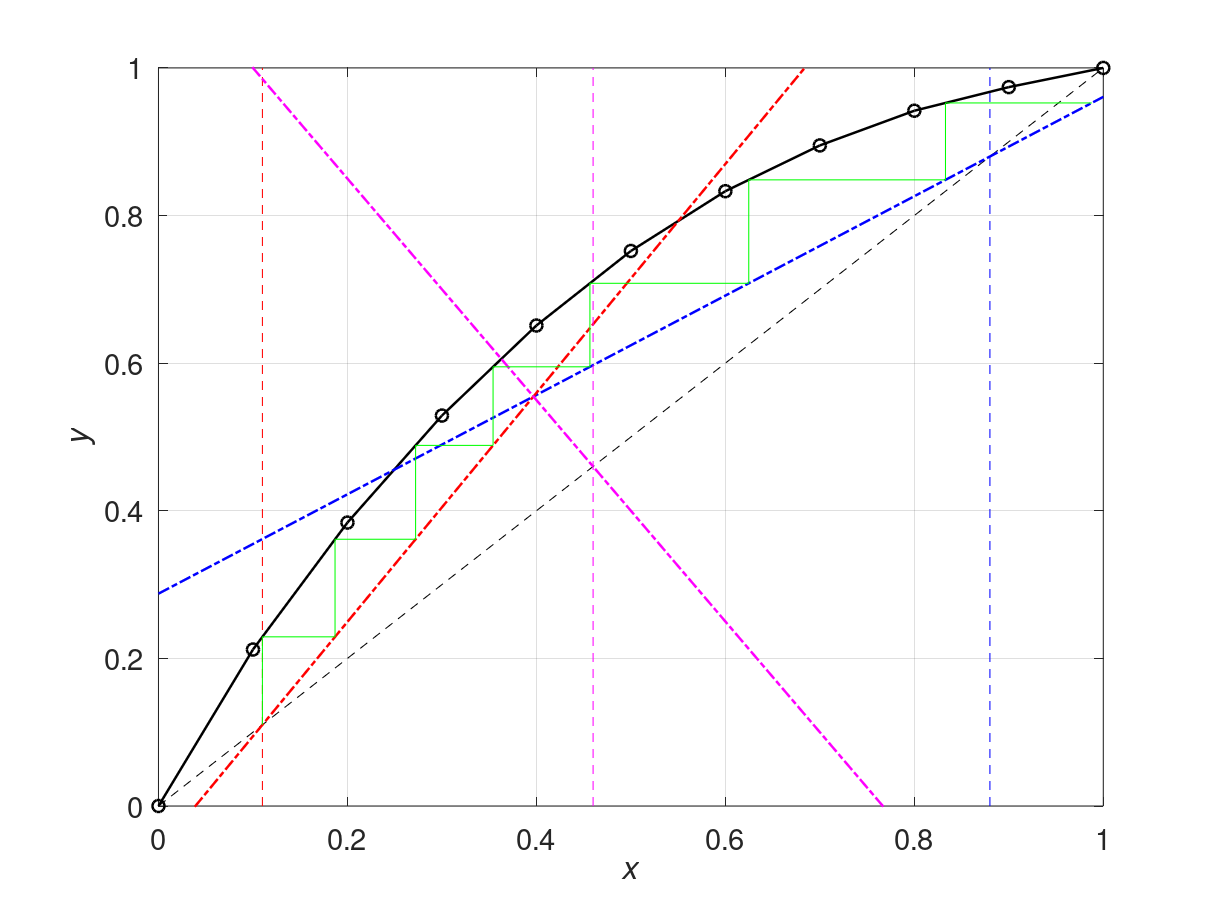
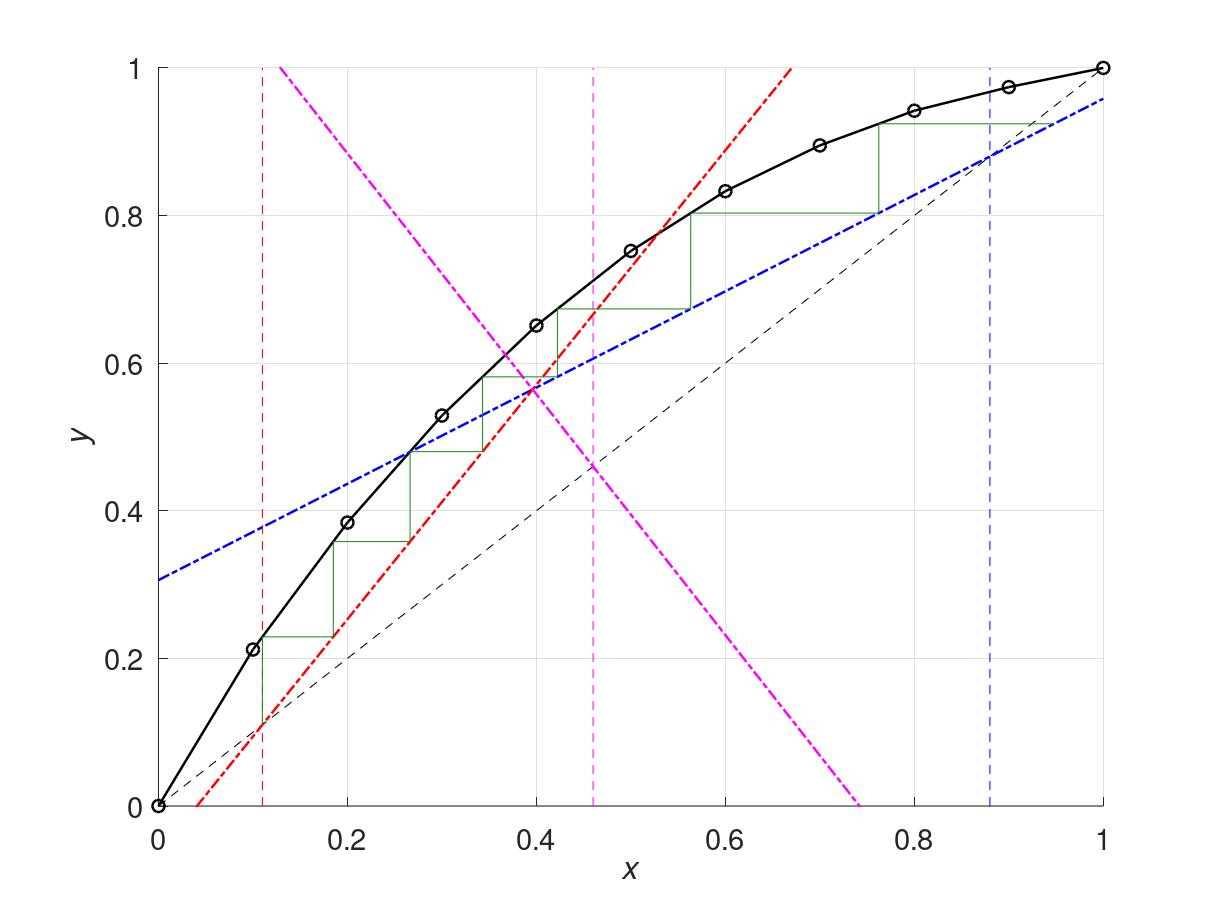
plots

diff --git a/src/doplots.m b/src/doplots.m
@@ -34,6 +34,7 @@ function doplots(dots,updown,f,x,y,data,X,q,R)
     xi=X(4);
     yi=X(5);
     figure;
+    hold on;
     if dots
         X=data(:,1);
         Y=data(:,2);
@@ -45,26 +46,27 @@ function doplots(dots,updown,f,x,y,data,X,q,R)
     end
     X=[0;1];
     Y=X;
-    hold on;plot(X,Y,'--k');
+    plot(X,Y,'--k');
     Y=R/(1+R)*X+xD/(1+R);
-    hold on;plot(X,Y,'-.b','linewidth',1.2)
-    hold on;plot([xD xD],[0 1],'--b');
+    plot(X,Y,'-.b','linewidth',1.2)
+    plot([xD xD],[0 1],'--b');
     Y=(xB-yi)/(xB-xi)*(X-xi)+yi;
-    hold on;plot(X,Y,'-.r','linewidth',1.2);
-    hold on;plot([xB xB],[0 1],'--r');
+    plot(X,Y,'-.r','linewidth',1.2);
+    plot([xB xB],[0 1],'--r');
     if q~=1-1e-10
         Y=q/(q-1)*X-xF/(q-1);
-        hold on;plot(X,Y,'-.m','linewidth',1.2);
+        plot(X,Y,'-.m','linewidth',1.2);
     end
-    hold on;plot([xF xF],[0 1],'--m');
+    plot([xF xF],[0 1],'--m');
     if updown
-        hold on;stairs(x,y,'g');
+        stairs(x,y,'g','color','#1D8B20');
     else
-        hold on;stairs(flip(x),flip(y),'g');
+        stairs(flip(x),flip(y),'g','color','#1D8B20');
     end
     xlabel('{\itx}');
     ylabel('{\ity}');
     axis([0 1 0 1]);
     grid on;
     set(gca,'fontsize',14);
+    hold off;
 end
